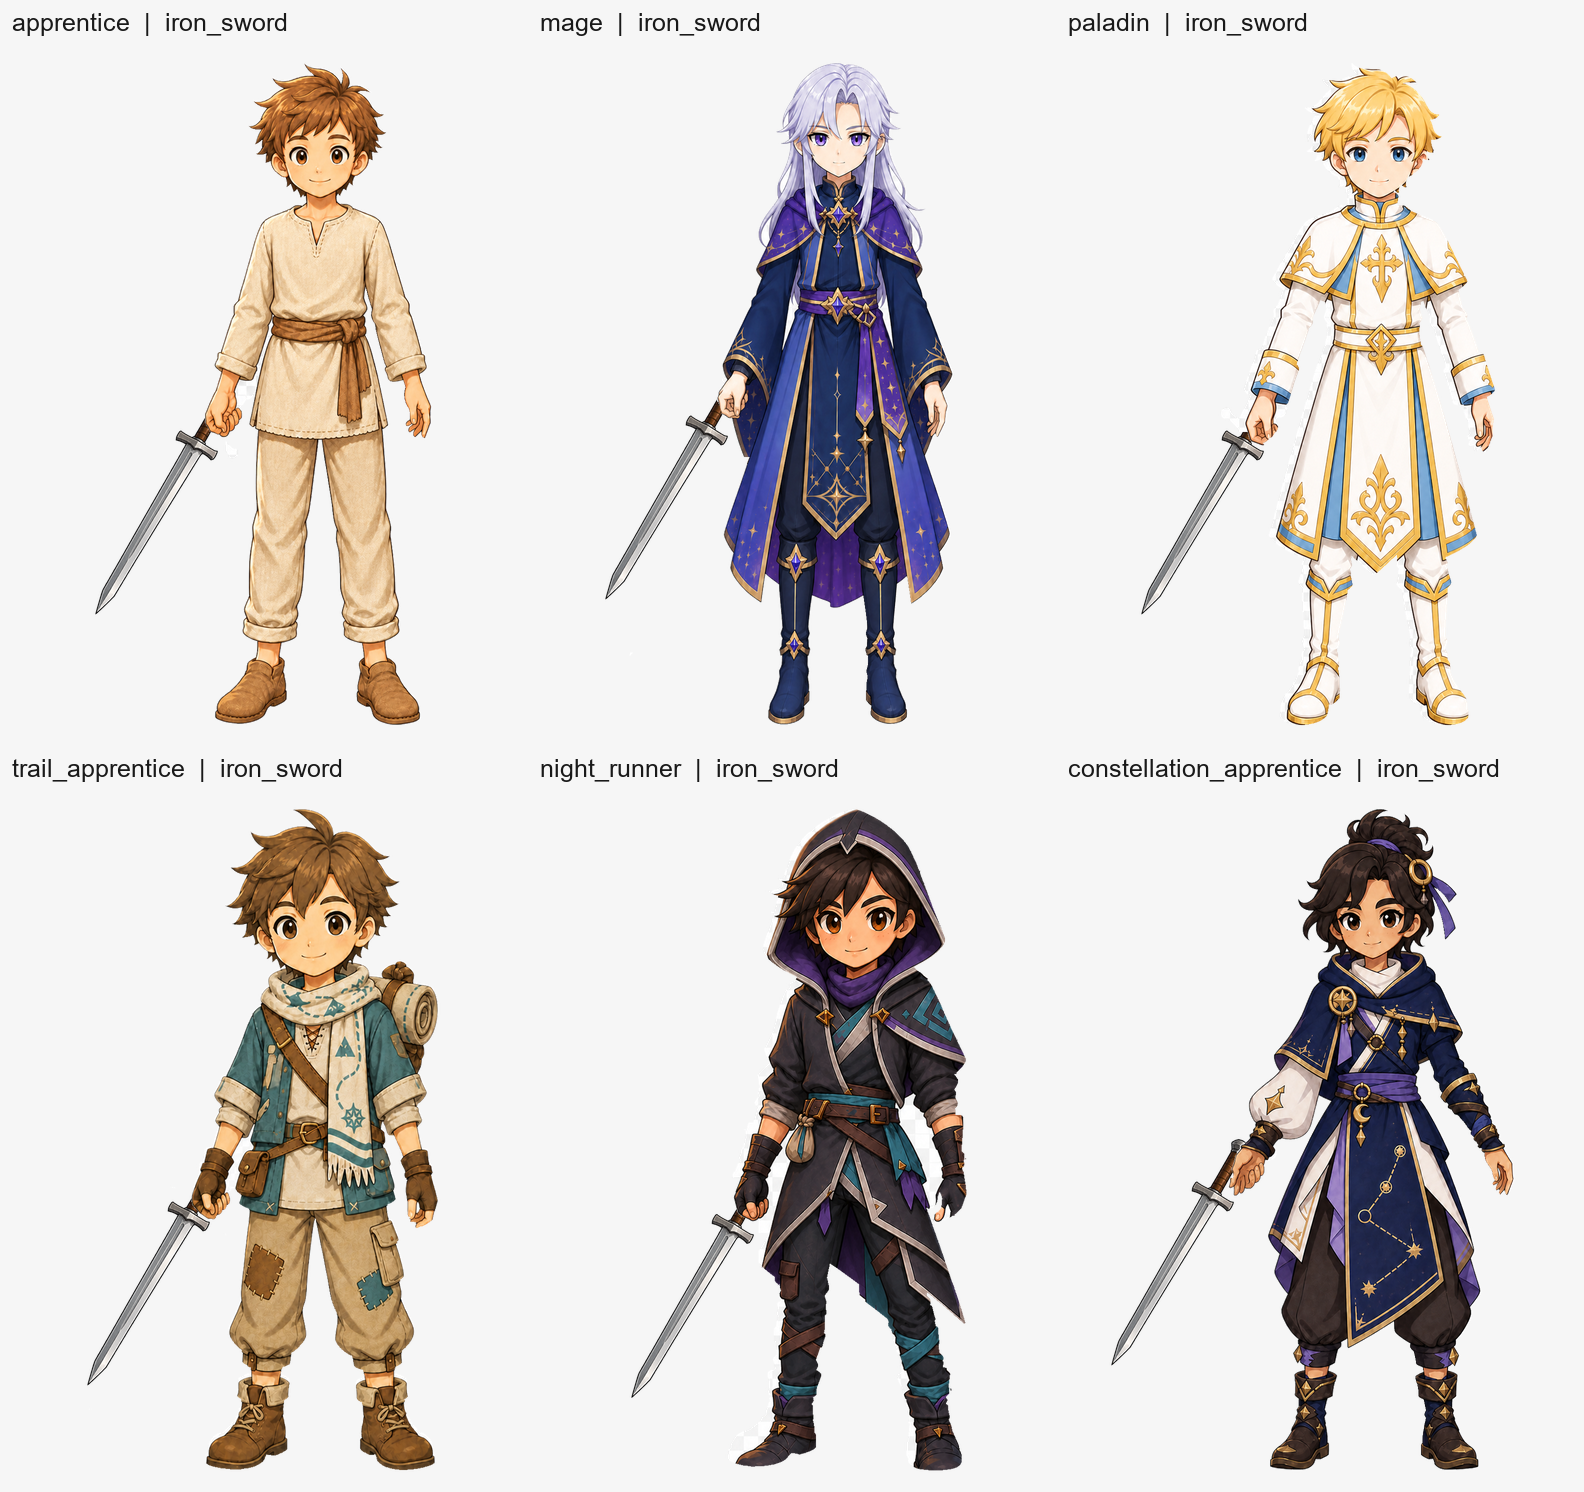
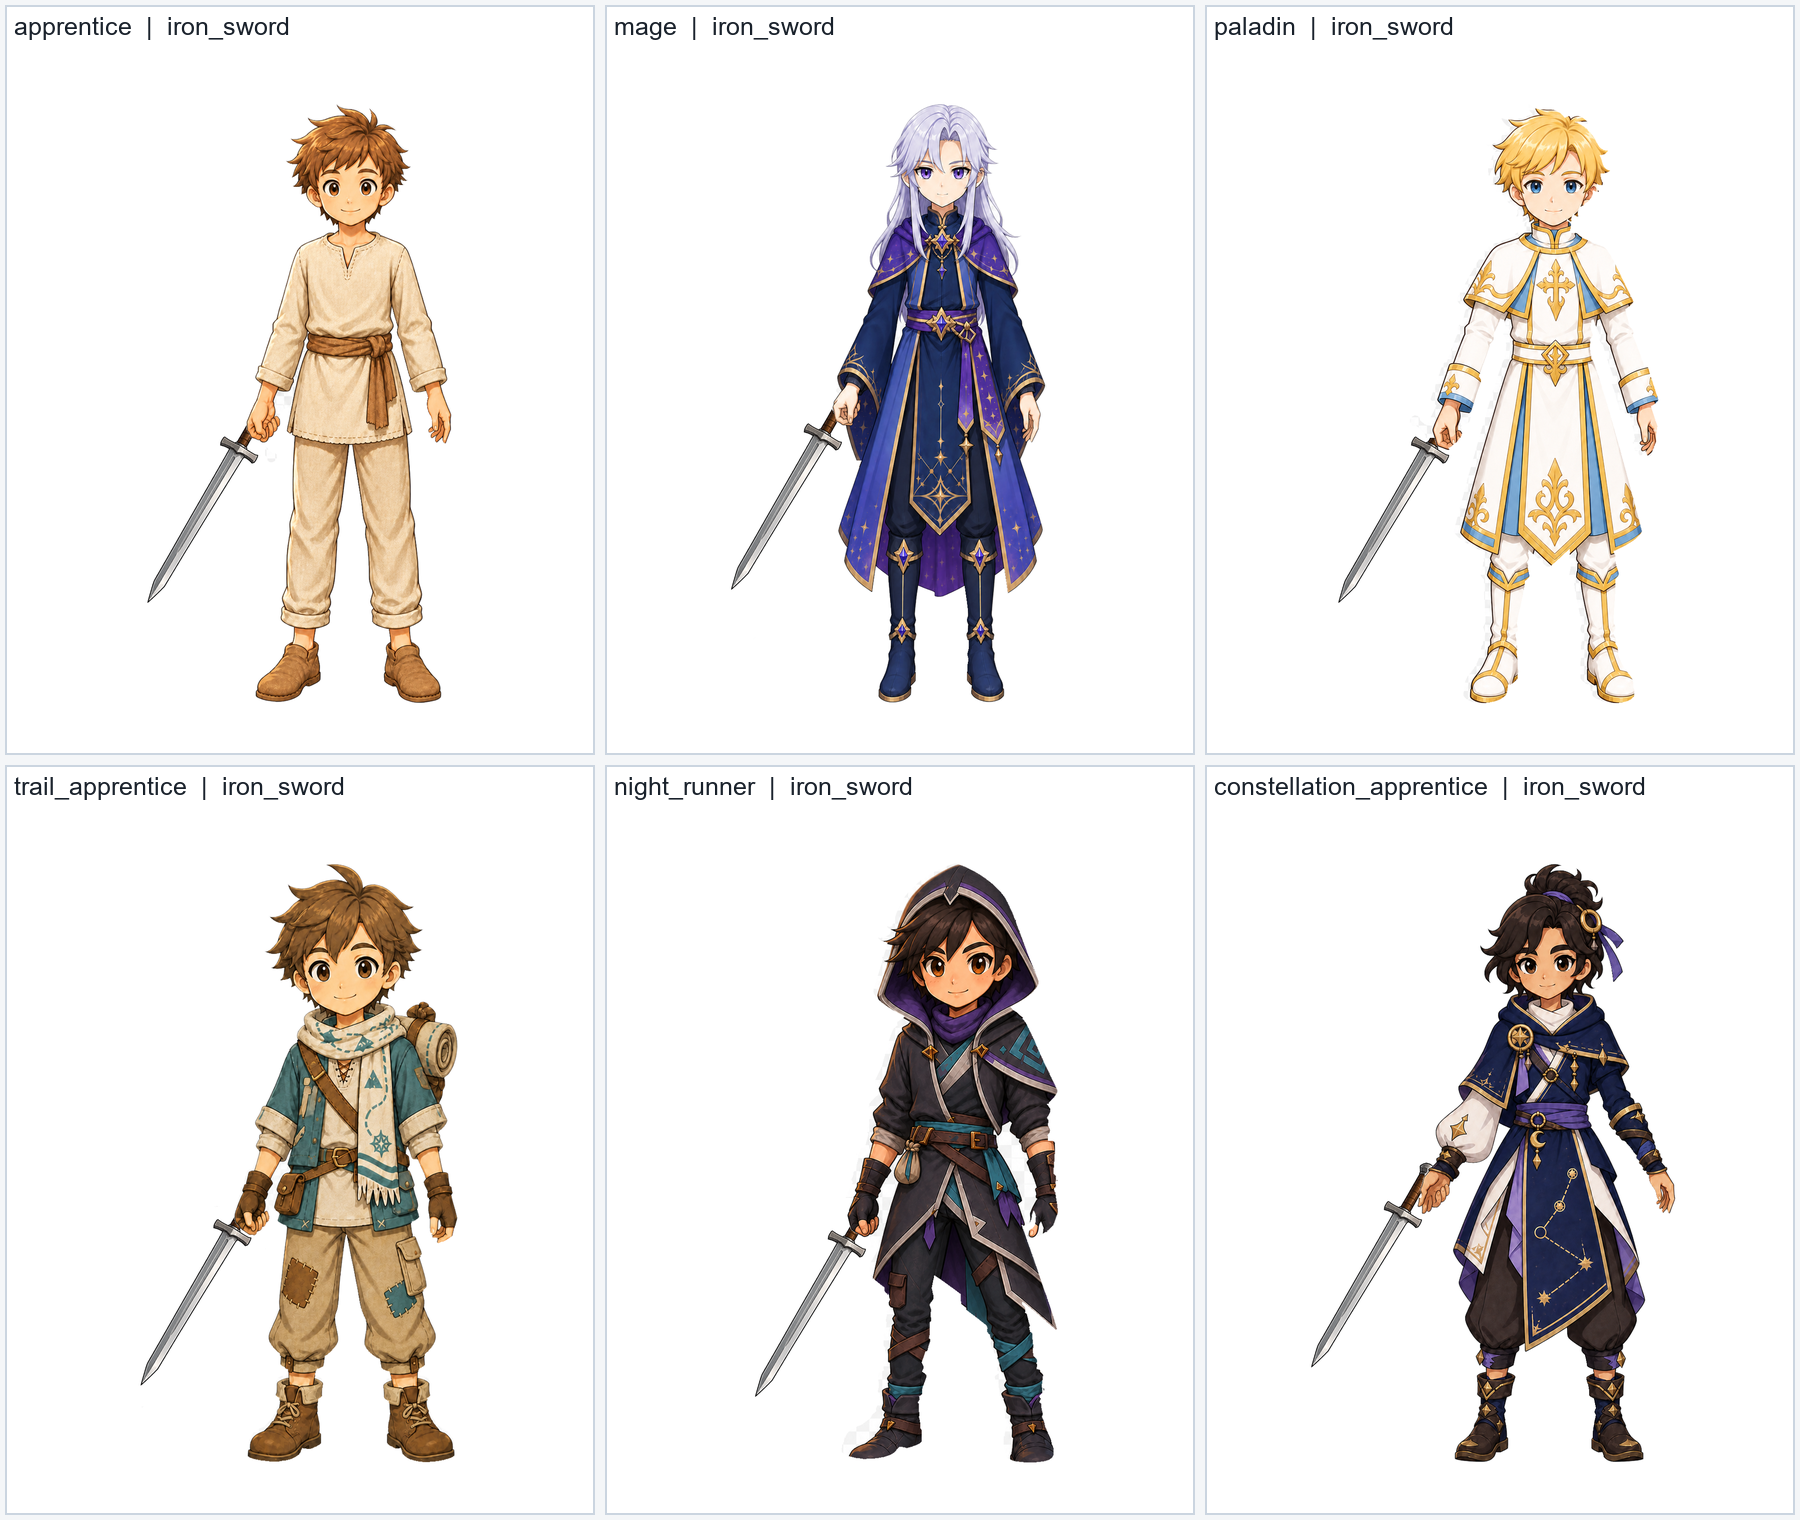
A052-R1D-R1 make handheld compositions frame safe

diff --git a/docs/planning/a052_r1d_handheld_overlay_review/owner_review_pack.html b/docs/planning/a052_r1d_handheld_overlay_review/owner_review_pack.html
@@ -30,13 +30,14 @@
 <body>
 <main>
   <h1>A052-R1D handheld weapon overlay composition</h1>
-  <p class="status"><strong>PENDING_OWNER_VISUAL_REVIEW</strong> — technical composition candidate only. Runtime wiring is not active and Loadout remains OFF.</p>
+  <p class="status"><strong>PENDING_OWNER_VISUAL_REVIEW</strong> — R1D-R1 frame-safe static composition retry. Runtime wiring is not active and Loadout remains OFF.</p>
   <p class="note">This pack compares the six Owner-approved weapon-free poses with the three candidate weapon-only overlays. It is designed to remain readable on desktop, tablet, and mobile-width screens.</p>
 
-  <h2>Six-character wooden sword composition</h2>
+  <h2>Six-character wooden sword composition — frame-safe retry</h2>
+  <p>The canonical 1056×1408 frame is preserved. This retry composes the character and weapon together on a 1264×1408 review canvas with 104px left/right padding, preserving all anchors, rotation, grip, and z-order while enforcing a positive visual safety margin.</p>
   <figure>
     <img src="wooden_sword_all_characters.png" alt="Six approved weapon-free characters composed with the candidate wooden sword overlay">
-    <figcaption>wooden_sword — all six character anchors</figcaption>
+    <figcaption>wooden_sword — all six character anchors, padded frame</figcaption>
   </figure>
   <p class="note">Characters shown: <code>apprentice</code>, <code>mage</code>, <code>paladin</code>, <code>trail_apprentice</code>, <code>night_runner</code>, <code>constellation_apprentice</code>.</p>
 

diff --git a/tests/test_a052_r1d_handheld_overlay_anchor_contract.py b/tests/test_a052_r1d_handheld_overlay_anchor_contract.py
@@ -4,6 +4,7 @@ from __future__ import annotations
 
 import hashlib
 import json
+import math
 from pathlib import Path
 
 from PIL import Image
@@ -207,3 +208,101 @@ def test_no_runtime_registry_wiring_is_active_in_r1d_contract() -> None:
     assert contract["runtime_activation"]["registry_wiring"] == "NOT_YET_IMPLEMENTED"
     registry_text = REGISTRY_PATH.read_text(encoding="utf-8")
     assert "/handheld/" not in registry_text
+
+
+def test_frame_safe_padded_composition_contract_is_explicit() -> None:
+    frame = load_contract()["frame"]
+    assert frame["width"] == 1056
+    assert frame["height"] == 1408
+    assert frame["composition"] == {
+        "mode": "PADDED_CANONICAL_FRAME",
+        "canvas_width": 1264,
+        "canvas_height": 1408,
+        "canonical_frame_offset_px": [104, 0],
+        "padding_px": {"left": 104, "right": 104, "top": 0, "bottom": 0},
+        "shift_character_and_weapon_together": True,
+        "overflow": "FORBIDDEN",
+        "minimum_visual_margin_px": {"x": 20, "y": 39},
+        "coordinate_space": "CANONICAL_FRAME_PIXELS_THEN_PADDED_CANVAS",
+        "responsive_rule": "scale_with_padded_character_container",
+    }
+
+
+def test_all_18_compositions_have_positive_frame_safety_margin() -> None:
+    contract = load_contract()
+    frame = contract["frame"]
+    composition = frame["composition"]
+    canonical_width = frame["width"]
+    canonical_height = frame["height"]
+    canvas_width = composition["canvas_width"]
+    canvas_height = composition["canvas_height"]
+    offset_x, offset_y = composition["canonical_frame_offset_px"]
+    minimum_margin_x = composition["minimum_visual_margin_px"]["x"]
+    minimum_margin_y = composition["minimum_visual_margin_px"]["y"]
+
+    checked = 0
+    observed_margins = []
+    for weapon_id, weapon in contract["supported_weapons"].items():
+        weapon_path = ROOT / weapon["asset_path"].lstrip("/").replace("/", "\\")
+        with Image.open(weapon_path) as image:
+            source = image.convert("RGBA")
+        resized_size = (
+            round(source.width * weapon["base_scale"]),
+            round(source.height * weapon["base_scale"]),
+        )
+        resized = source.resize(resized_size, Image.Resampling.LANCZOS)
+        rotated = resized.rotate(
+            weapon["base_rotation_deg"],
+            resample=Image.Resampling.BICUBIC,
+            expand=True,
+        )
+        weapon_bbox = rotated.getchannel("A").getbbox()
+        assert weapon_bbox is not None
+        grip_x = weapon["weapon_grip_point"][0] * resized.width
+        grip_y = weapon["weapon_grip_point"][1] * resized.height
+        # PIL's expanded rotate uses the inverse-sign coordinate transform for
+        # the point used by the existing R1D static composition evidence.
+        angle = math.radians(-weapon["base_rotation_deg"])
+        source_center = (resized.width / 2, resized.height / 2)
+        rotated_center = (rotated.width / 2, rotated.height / 2)
+        transformed_grip_x = (
+            math.cos(angle) * (grip_x - source_center[0])
+            - math.sin(angle) * (grip_y - source_center[1])
+            + rotated_center[0]
+        )
+        transformed_grip_y = (
+            math.sin(angle) * (grip_x - source_center[0])
+            + math.cos(angle) * (grip_y - source_center[1])
+            + rotated_center[1]
+        )
+
+        for character_id, character in contract["characters"].items():
+            pose_path = ROOT / character["pose_asset"].lstrip("/").replace("/", "\\")
+            with Image.open(pose_path) as image:
+                pose_bbox = image.convert("RGBA").getchannel("A").getbbox()
+            assert pose_bbox is not None
+            anchor_x = character["grip_x"] * canonical_width
+            anchor_y = character["grip_y"] * canonical_height
+            weapon_left = anchor_x - transformed_grip_x
+            weapon_top = anchor_y - transformed_grip_y
+            combined_bbox = (
+                min(offset_x + pose_bbox[0], offset_x + weapon_left + weapon_bbox[0]),
+                min(offset_y + pose_bbox[1], offset_y + weapon_top + weapon_bbox[1]),
+                max(offset_x + pose_bbox[2], offset_x + weapon_left + weapon_bbox[2]),
+                max(offset_y + pose_bbox[3], offset_y + weapon_top + weapon_bbox[3]),
+            )
+            left_margin = combined_bbox[0]
+            top_margin = combined_bbox[1]
+            right_margin = canvas_width - combined_bbox[2]
+            bottom_margin = canvas_height - combined_bbox[3]
+            assert left_margin >= minimum_margin_x
+            assert top_margin >= minimum_margin_y
+            assert right_margin >= minimum_margin_x
+            assert bottom_margin >= minimum_margin_y
+            observed_margins.extend(
+                (left_margin, top_margin, right_margin, bottom_margin)
+            )
+            checked += 1
+
+    assert checked == 18
+    assert min(observed_margins) >= min(minimum_margin_x, minimum_margin_y)
